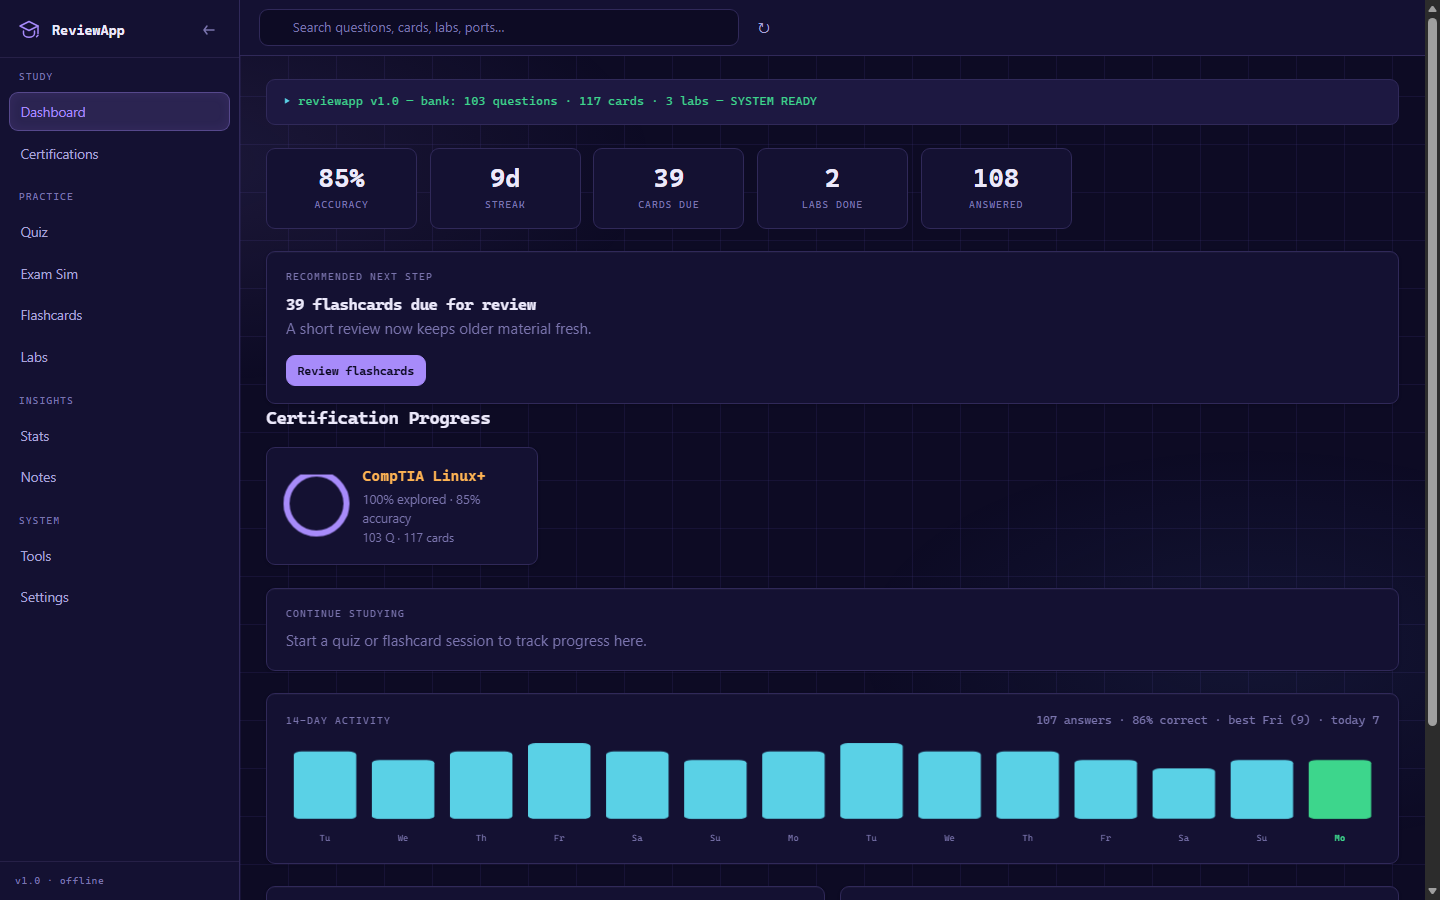
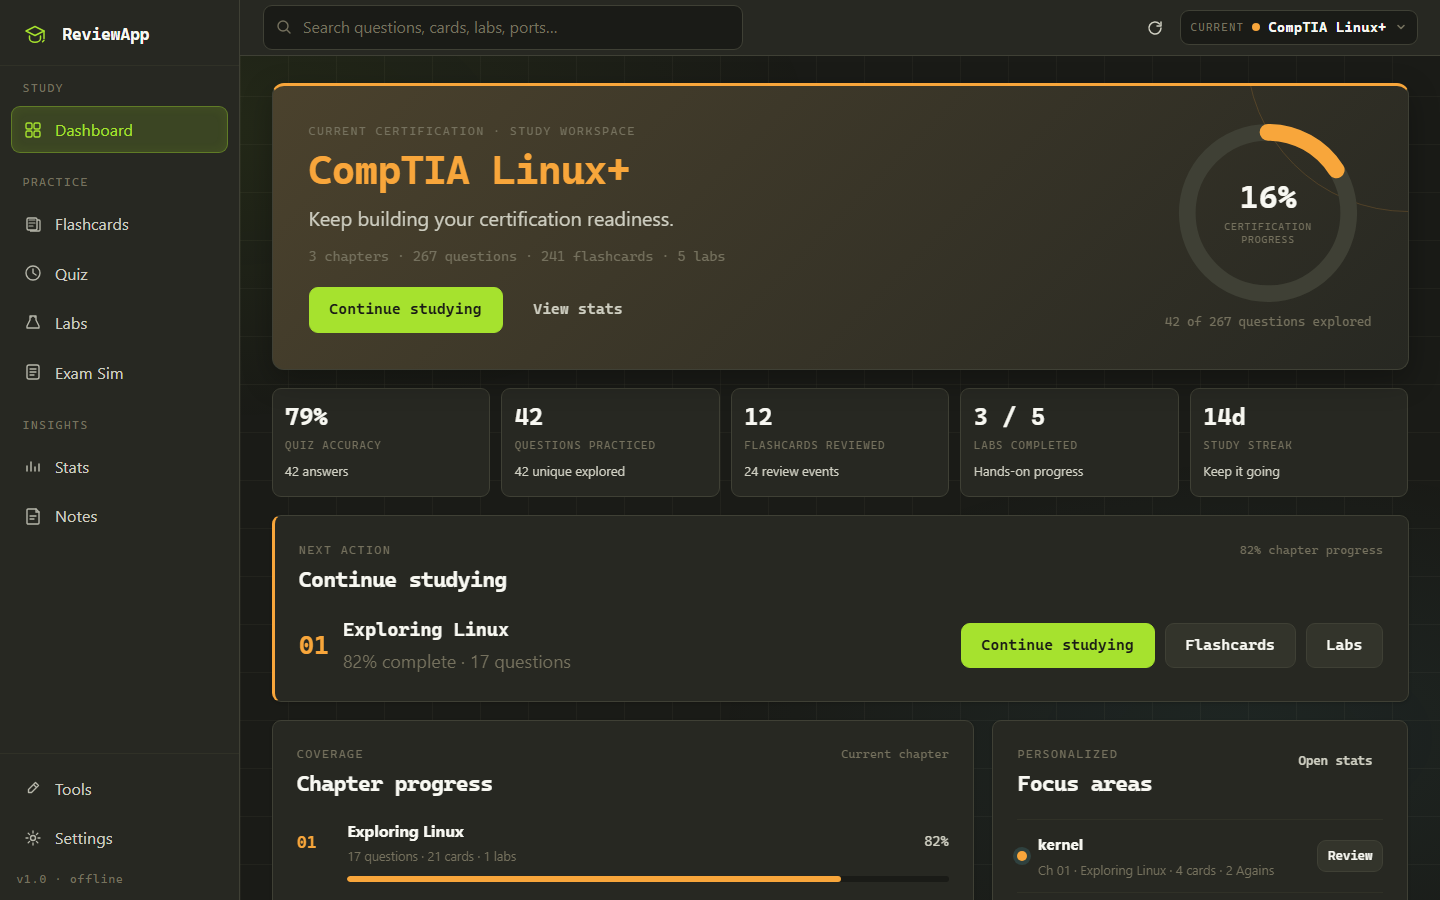
Refresh README screenshots for current UI.
Generated with Codebuff 🤖

diff --git a/README.md b/README.md
@@ -27,8 +27,10 @@ persisted locally in `localStorage`.
 
 ## Screenshots
 
-The repository includes screenshots of the main study views in
-[`docs/screenshots/`](./docs/screenshots/).
+The repository includes current screenshots of the main study views in
+[`docs/screenshots/`](./docs/screenshots/). They reflect the current dark
+terminal-inspired UI, populated study analytics, and certification-scoped
+layout.
 
 | Dashboard | Quiz |
 |---|---|
